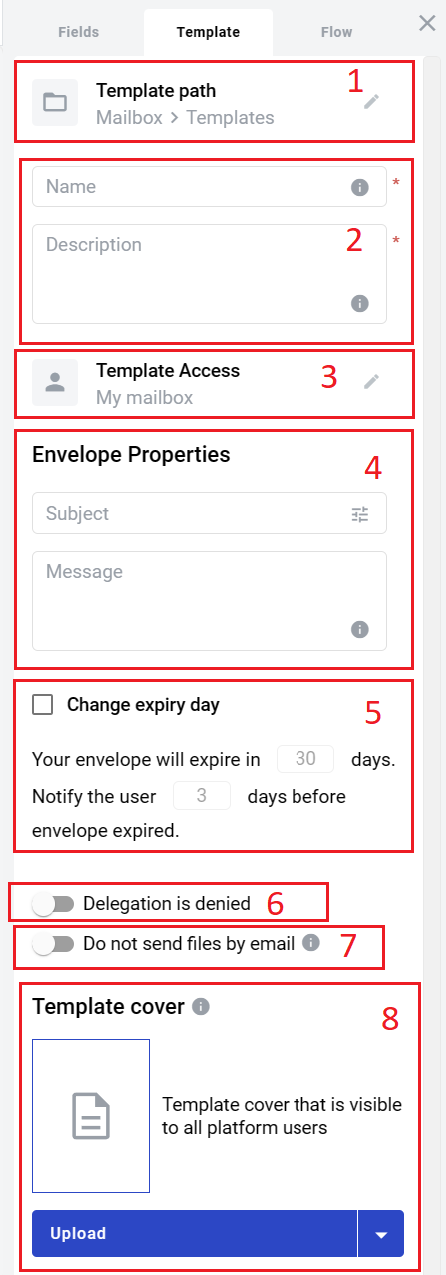
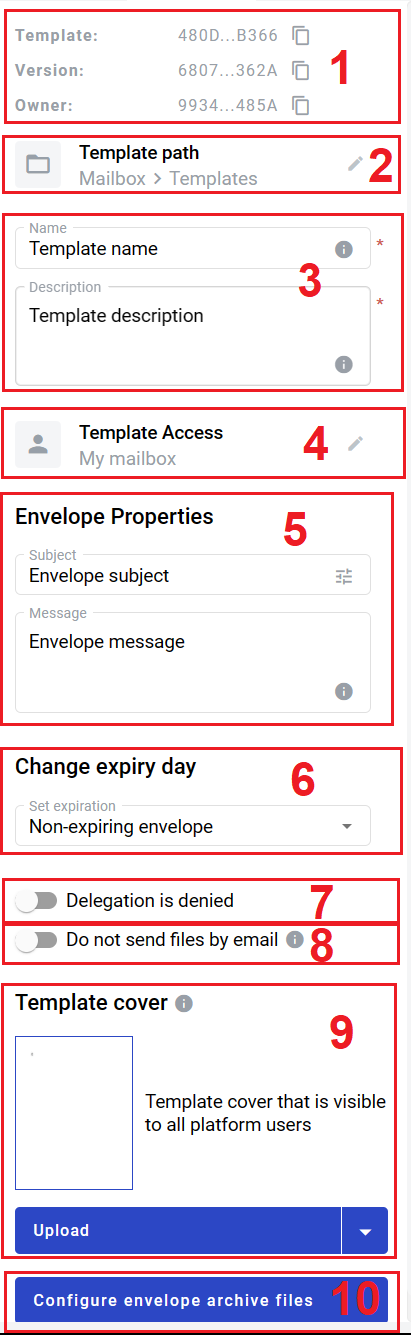
Fresh screens, some text updates and sphinx update (#176)
* Fresh screens, some text updates and sphinx update

* screen and text update

Changed region(s): [[0.0, 0.0, 0.9927, 1.0]]

diff --git a/docs/source/conf.py b/docs/source/conf.py
@@ -24,7 +24,7 @@ copyright = '2023, DocStudio'
 author = 'DocStudio'
 
 # The full version, including alpha/beta/rc tags
-release = '1.27'
+release = '86'
 
 
 # -- General configuration ---------------------------------------------------

diff --git a/docs/source/pages/howToWorkWithPlatform/mainApplication/templateList/templateManagement/templateCreationEdition/templateCreationEdition.rst b/docs/source/pages/howToWorkWithPlatform/mainApplication/templateList/templateManagement/templateCreationEdition/templateCreationEdition.rst
@@ -33,15 +33,16 @@ On template configuration page you can set some template properties, such as tem
    :width: 300
    :align: center
 
-1. Template path. This property allow you configure template storing location across your mailbox
-2. Template name and description. These fields are mandatory to save a template
-3. Template access level. Property which allows you set access level of the template according to your needs. Detailed about access level :ref:`here <templateAccessLevel>`
-4. Subject and message of envelopes created from this template. If set on template level, it's impossible to change them on envelope level later
+1. Version info - appears after template is saved. Here you can find UUIDs of template, it's current version and owner mailbox
+2. Template path - this property allows you to configure template storing location across your mailboxes
+3. Template name and description - these fields are mandatory to save a template
+4. Template Access - property which allows you to set access level of the template according to your needs. You can read more about this functionality :ref:`here <templateAccessLevel>`
+5. Envelope Properties - subject and message of envelopes created from a template. If set on template level, it's impossible to change it on envelope level later
 
 .. note:: Advanced subject properties can be opened with properties button in Subject field. From there you can configure dynamic envelope auto-subject for each envelope which will include data from specified dynamics field in the envelope.
 
-5. Envelope expiration property allows you to configure expiration period of envelopes created from template. If set on template level, it's impossible to change it on envelope level later
-6. Envelope delegation property denies or allows delegation of the actions with envelope. If set on template level, it's impossible to change it on envelope level later
-7. Envelope sending and sharing emails property denies or allows possibility to attach documents to envelope completion email or possibility to share envelope. If set on template level, it's impossible to change it on envelope level later
-8. Template cover. Preview of the template that will be visible mailboxes which have access to template. Can use custom image or dynamically generate preview of first page of the template
-9. Envelope archive files configuration. This feature enables you to configure an envelope archive that can be downloaded upon completion of the envelope. To read more about this functionality you can Detailed about access level :ref:`here <archiveConfiguration>`
+6. Envelope expiry day - allows you to configure expiration period of envelopes created from template. If set on template level, it's impossible to change it on envelope level later
+7. Envelope delegation - allows or denies delegation of the envelope. If set on template level, it's impossible to change it on envelope level later
+8. Envelope sending and sharing - this property allows or denies possibility to attach documents to the envelope completion email notification or possibility to share the envelope. If set on template level, it's impossible to change it on envelope level later
+9. Template cover - preview of the template that will be visible mailboxes which have access to template. Can use custom image or dynamically generate preview of first page of the template
+10. Configure envelope archive files - this feature allows you to configure an envelope archive that can be downloaded upon completion of the envelope. You can read more about this functionality :ref:`here <archiveConfiguration>`

diff --git a/docs/source/pages/howToWorkWithPlatform/mainApplication/templateList/templateManagement/templateCreationEdition/archiveConfiguration.rst b/docs/source/pages/howToWorkWithPlatform/mainApplication/templateList/templateManagement/templateCreationEdition/archiveConfiguration.rst
@@ -4,39 +4,26 @@
 Envelope archive files configuration
 ====================================
 
-.. toctree::
-
-User with template editor permissions is able to configure one extra configuration of ZIP archive which will be available once envelope completed. Only one configuration can be set for template version
+User with template editor permissions is able to configure one extra configuration of ZIP archive which will be available once envelope completed. Only one configuration can be set for template version.
 
 .. note:: Configuration can be created only for saved template
-
 
 How to add envelope archive files configuration?
 ================================================
 
-To add configuration firstly open template for edition and follow to template section in right side menu
-
-
-In the end of the template properties you'll observe button "Configure envelope archive files"
-
-
-Once you click on it configuration form will be opened in case if template saved. If template contains unsaved data firstly you need to save template.
-
-
-Configuration form contains one required input with configuration title (title will be shown on envelope for user as download envelope option) and documents structure which can be added to archive
-
-
-To set configuration fill in configuration title (this input should contain from 1 to 50 symbols) and select some files which you want to be presented in archive
-
-
-Than you can save configuration by click on "Save" button
+1. To add configuration firstly open template for edition and follow to template section in right side menu
+2. In the end of the template properties you'll observe button "Configure envelope archive files"
+3. Once you click on it configuration form will be opened in case if template saved. If template contains unsaved data firstly you need to save template.
+4. Configuration form contains one required input with configuration title (title will be shown on envelope for user as download envelope option) and documents structure which can be added to archive
+5. To set configuration fill in configuration title (this input should contain from 1 to 50 symbols) and select some files which you want to be presented in archive
+6. Than you can save configuration by clicking on "Save" button
 
 How to edit envelope archive files configuration?
 =================================================
 
-Once you've added configuration you can update it. To do that just open configuration as for creation and you will observe saved configuration. Than make changes you want and save configuration
+Once you've added configuration you can update it. To do that just open configuration as for creation and you will observe saved configuration. Than make changes you want and save configuration.
 
 How to delete envelope archive files configuration?
 ===================================================
 
-Once you've added configuration you can delete it. To do that just open configuration as for creation and click on "Delete" button. Configuration will be deleted and no more available for particular version of template
+Once you've added configuration you can delete it. To do that just open configuration as for creation and click on "Delete" button. Configuration will be deleted and no more available for particular version of template.
